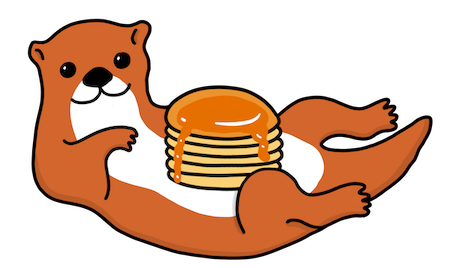
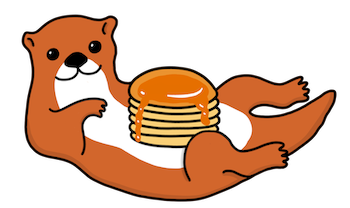
fix mobile rendering of pancakes

diff --git a/pages/home.md b/pages/home.md
@@ -57,7 +57,7 @@ A small group of community members from across the globe thought this was someth
       </div>
   </header>
   <main class="flex flex-wrap">
-    <img class="sm:w-full md:w-auto" style="height:auto" src="/static/img/Pancakes.png">
+    <img src="/static/img/Pancakes.png">
   </main>
 </section>
 
